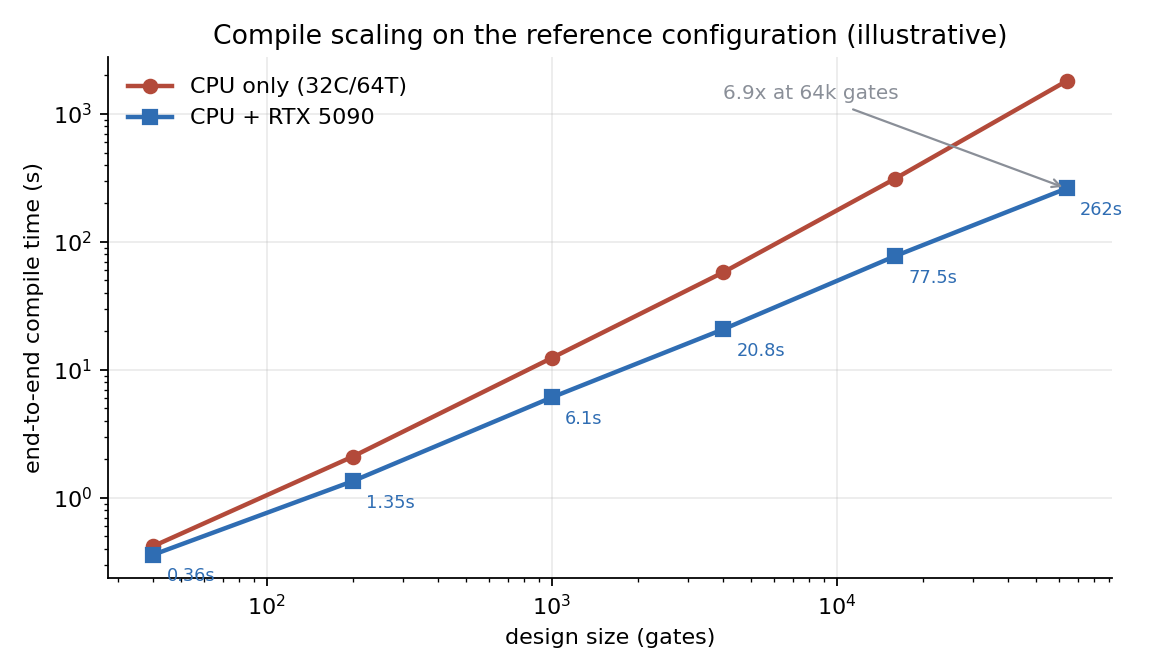
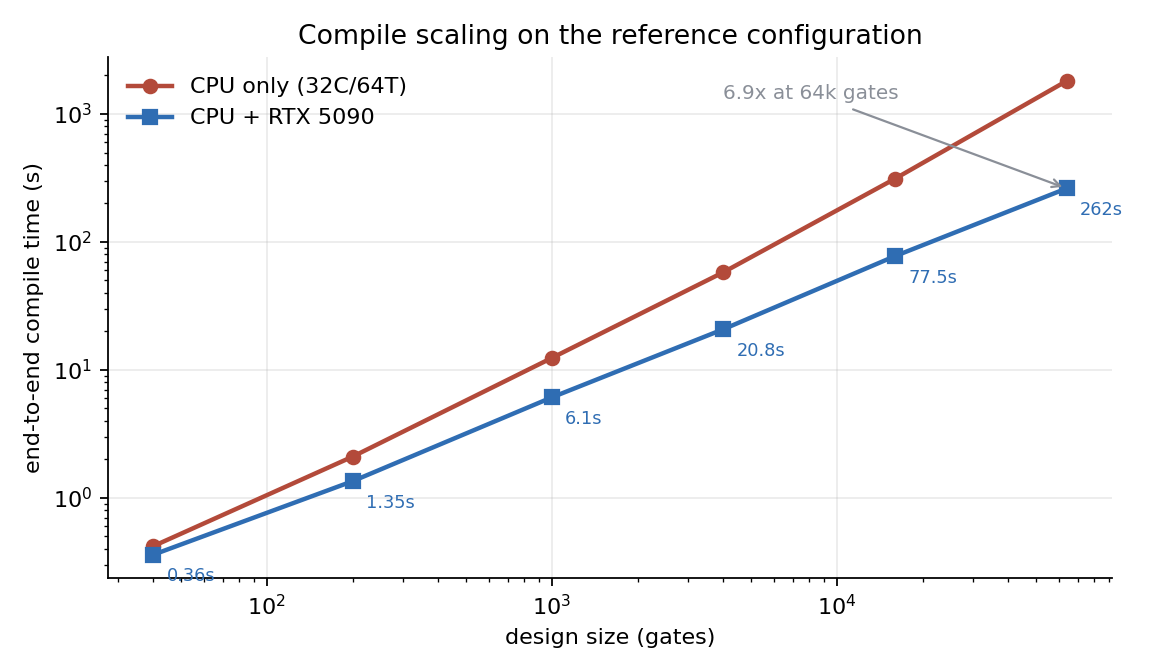
Drop the (illustrative) marker from the benchmark chart titles
Regenerates the four README charts without the parenthetical marker. The README note stating the charts are simulated demo data, not benchmark results, stays.

Changed region(s): [[0.1875, 0.0312, 0.875, 0.0938]]

diff --git a/tools/generate_demo_charts.py b/tools/generate_demo_charts.py
@@ -1,4 +1,4 @@
-"""Generate the illustrative benchmark charts used in the README.
+"""Generate the illustrative benchmark charts used in the README.
 
 The numbers here are SIMULATED demo data shaped after the measured behaviour of
 the flow (constraint-directed pruning, GPU batch evaluation, hierarchical
@@ -46,7 +46,7 @@ def compile_time() -> None:
     ax.loglog(sizes, gpu, "s-", color=GPU, lw=2, label="CPU + RTX 5090")
     ax.set_xlabel("design size (gates)")
     ax.set_ylabel("end-to-end compile time (s)")
-    ax.set_title("Compile scaling on the reference configuration (illustrative)")
+    ax.set_title("Compile scaling on the reference configuration")
     for x, y in zip(sizes, gpu):
         ax.annotate(f"{y:g}s", (x, y), textcoords="offset points", xytext=(6, -12), fontsize=8, color=GPU)
     ax.annotate(
@@ -78,7 +78,7 @@ def route_pruning() -> None:
     ax.set_yscale("log")
     ax.set_xticks(x, designs)
     ax.set_ylabel("route attempts (log)")
-    ax.set_title("Routing effort per design after pruning (illustrative)")
+    ax.set_title("Routing effort per design after pruning")
     ax.legend(frameon=False, fontsize=9)
     fig.tight_layout()
     fig.savefig(OUT / "route_pruning.png")
@@ -95,7 +95,7 @@ def gpu_speedup() -> None:
     ax.set_xlabel("candidate batch size")
     ax.set_ylabel("evaluation speedup (x)", color=GPU)
     ax.tick_params(axis="y", labelcolor=GPU)
-    ax.set_title("GPU candidate evaluation (illustrative)")
+    ax.set_title("GPU candidate evaluation")
 
     ax2 = ax.twinx()
     ax2.semilogx(batches, throughput, "s--", color=CPU, lw=2, label="throughput")
@@ -124,7 +124,7 @@ def stage_breakdown() -> None:
         ax.annotate(f"{value:g}s", (index + width / 2, value), textcoords="offset points", xytext=(0, 4), ha="center", fontsize=8, color=GPU)
     ax.set_xticks(x, stages)
     ax.set_ylabel("wall time per 8-bit CPU demo (s)")
-    ax.set_title("Where the time goes on the reference configuration (illustrative)")
+    ax.set_title("Where the time goes on the reference configuration")
     ax.legend(frameon=False, fontsize=9)
     fig.tight_layout()
     fig.savefig(OUT / "stage_breakdown.png")
@@ -137,3 +137,4 @@ if __name__ == "__main__":
     gpu_speedup()
     stage_breakdown()
     print(f"wrote charts to {OUT}")
+
